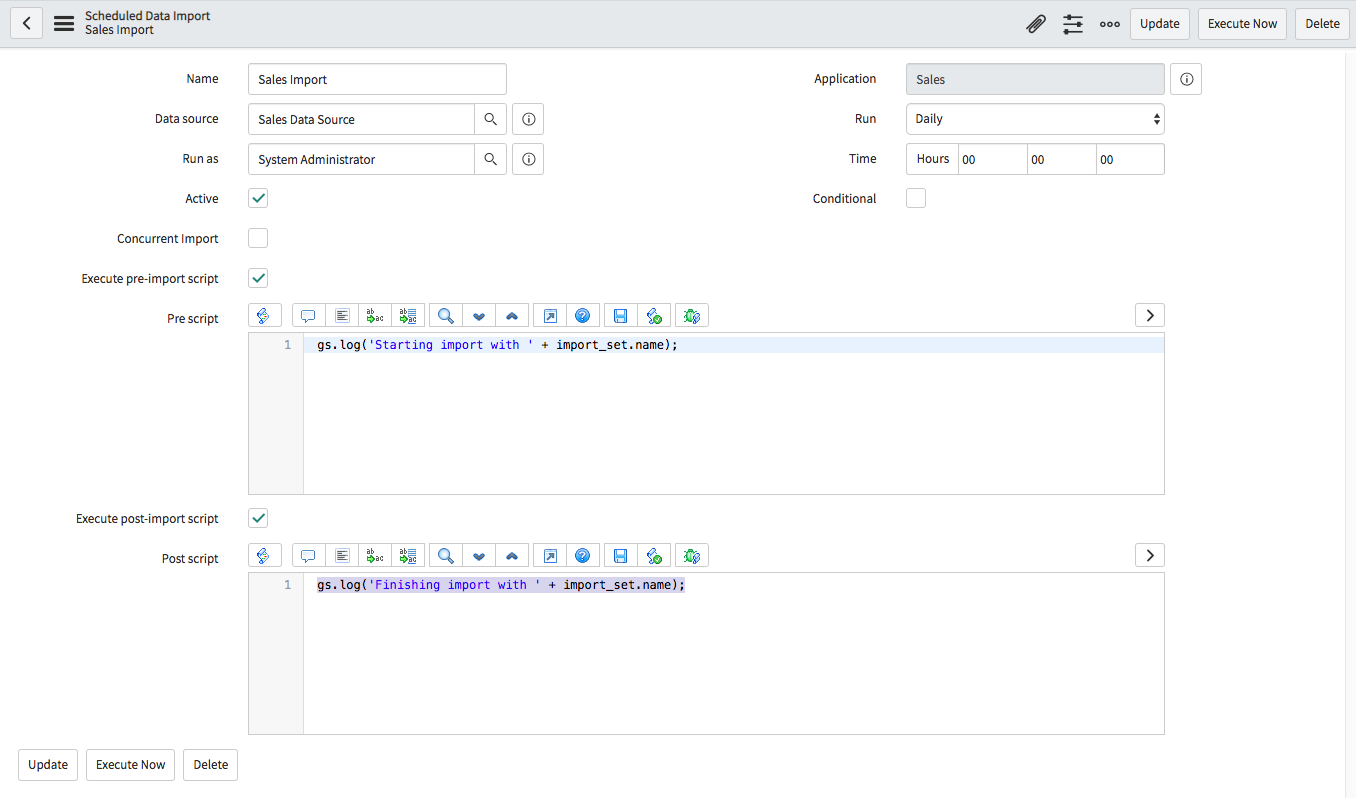
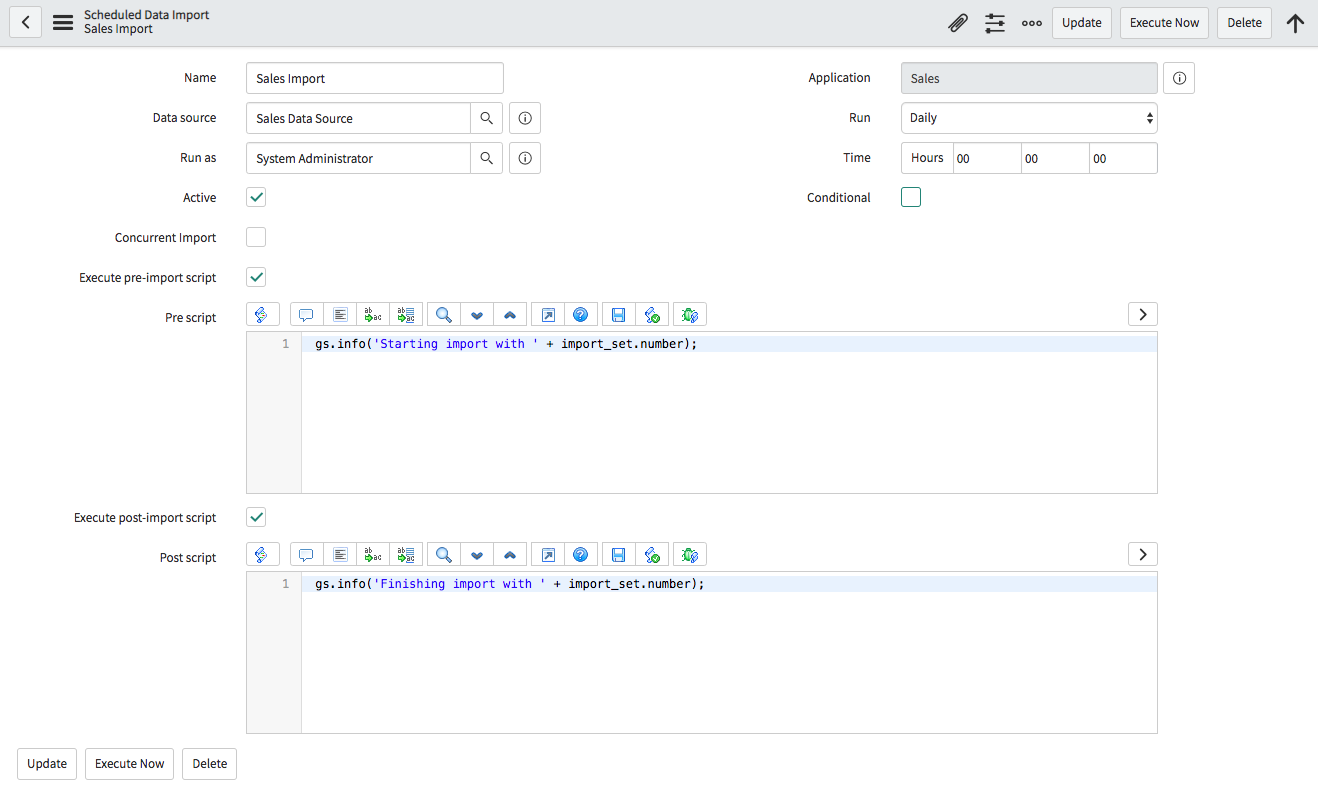
Adding running scheduled import

diff --git a/guidebook.md b/guidebook.md
@@ -113,20 +113,107 @@ In this lab first you will create a Data Source, Transform Map and a Scheduled I
 
 4. Select the **Data source** we created in Section 1.
 
-5. Check **Execute pre-import script and set the following **Pre script**
+5. Check **Execute pre-import** script and set the following **Pre script**
 
     ```javascript
-    gs.log('Starting import with ' + import_set.name);
+    gs.info('Starting import with ' + import_set.number);
     ```
 
 6. Check **Execute post-import script** and set the following **Post script**
     
     ```javascript
-    gs.log('Finishing import with ' + import_set.name);
+    gs.info('Finishing import with ' + import_set.number);
     ```
 
 7. Right click on top panel and click **Save**
 
     ![](./images/section2/scheduled_import.png) 
+
+## Running the **Scheduled Import**
+
+1. Click on **Execute Now**. This starts the Schedule import as a back ground job.
+
+2. Goto **System Import Sets** -> **Advanced** -> **Import Sets**
+
+3. Click on *ISET0010002*. This is the import set created for the scheduled import. The **Import Set Rows** tab shows you all the import set rows and their state of processing. The **Import Set Runs** tab shows the statistics of curent import set processing.
+
+    ![](./images/section2/import_set_view.png)
+
+4. Observe the import set run progress slowly. We can diagnose such scenarios using **System Diagnostics**
+
+## Diagnose import set performance 
+
+1. Goto **System Diagnostics** -> **Stats** -> **Slow Scripts**. In this case we use **Slow Scripts**. But any of slow **Events**, **Mutex Locks**, **Queries**, **Scripts**, **Transactions** can be used in diagnosis.
+
+2. Click on **Average execution time (ms)** to sort the scripts with time.
+
+3. Locate the *sys_script:Process sales total* **Bussiness Rule**.
+
+4. Click on the *sys_script:Process sales total* script.
+
+5. Click on **Script source** preview.
+
+    ![](./images/section2/slow_script.png) 
+
+6. Click on **Open Record**
+
+    ![](./images/section2/business_rule.png) 
+
+7. Note that this business rule has a sleep which makes the transformation slow. We can deactivate this business rule at this point to make the transformation fast. But first lets see how to kill this process without doing that.
+
+
+## Stop Transformation process
+
+1. Goto **User Administration** -> **All Active Transactions**
+
+    ![](./images/section2/active_transactions.png)
+
+2. Right click on *System Trigger** transaction and select kill.
+
+3. Goto **System Import Sets** -> **Advanced** -> **Import Sets**
+
+4. Click on *ISET0010002*.
+
+5. Click on *Import Set Run*
+
+6. Click on **Import Log** tab
+
+7. Click on **Created** field to sort the messages with timestamp.
+
+    ![](./images/section2/transform_history.png)
+
+## Re Run **Scheduled Import**
+
+First we need to deactivate the **Business Rule** we detected at the diagnosing. We can deactivate the business rule or deactivate the **Business rules** for whole transformation. Here we use the later approach.
+
+1. Goto **System Import Sets** -> **Administration** -> **Transform Maps**
+
+2. Select *Sales Transform Map*
+
+3. Uncheck **Run business rules**
+
+4. Click **Update**
+
+5. Goto **System Import Sets** -> **Administration** -> **Scheduled Imports**
+
+6. Select *Sales Import*
+
+7. Click **Execute Now**
+
+8. Goto **System Import Sets** -> **Advanced** -> **Import Sets**
+
+9. Click on *ISET0010003*.
+
+10. Refresh the import set view until import is finished. Import is finished around 2 min time
+
+    ![](./images/section2/import_set_complete_view.png)
+
+11. Goto **System Logs** -> **System Log** -> **Application Logs**
+
+12. Locate following log statements
+
+    Finishing import with ISET0010003
+    Starting import with ISET0010003
+
 
  
